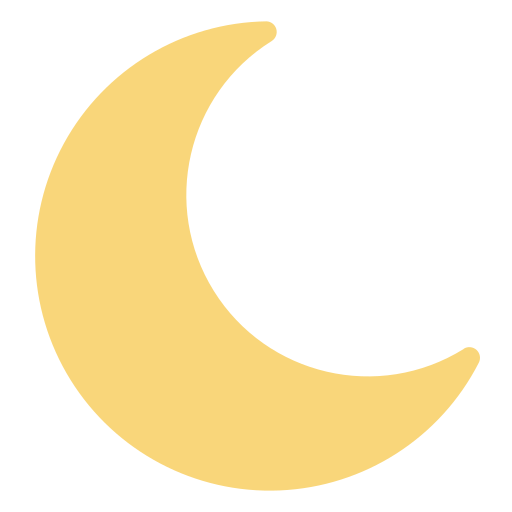
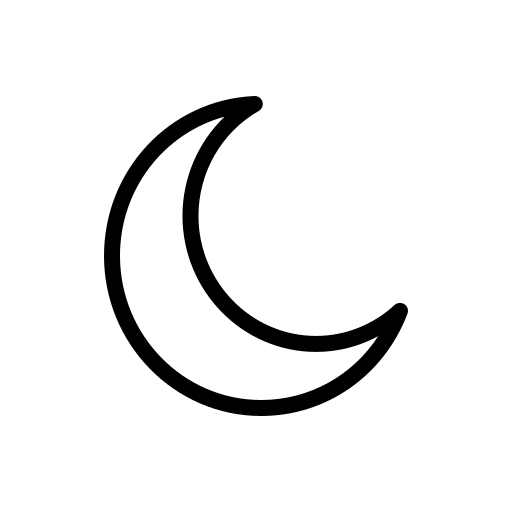
11.1

diff --git a/src/main/resources/com/example/teamproject/Design.css b/src/main/resources/com/example/teamproject/Design.css
@@ -8,16 +8,47 @@
     -fx-border-width: 0px 0px 3px 0px;
 }
 
-.firstColor {
-    -fx-background-color: rgba(214, 214, 208, 0.5);
+.round {
+    -fx-background-radius: 30px;
 }
+
+.firstColor {
+    -fx-background-color: rgba(178, 181, 214, 0.8);
+}
+
+.secondColor {
+    -fx-background-color: rgba(188, 192, 227, 0.8);
+}
+
+.thirdColor {
+    -fx-background-color: rgba(157, 159, 189, 0.74);
+}
+
+.fourthColor {
+    -fx-background-color: rgba(72, 73, 87, 0.2);
+}
+
+.fifthColor {
+    -fx-background-color: rgba(125, 127, 150, 0.59);
+}
+
 
 .BackgroundColor {
     -fx-background-color: white;
 }
 
+.white {
+    -fx-background-color: rgba(255, 255, 255, 0.5);
+}
+
 .LogoImage {
     -fx-background-image: url(Cresent.png);
+    -fx-background-size: cover;
+    -fx-background-position: center;
+}
+
+.CresentImage {
+    -fx-background-image: url(Moon.png);
     -fx-background-size: cover;
     -fx-background-position: center;
 }

diff --git a/src/main/java/com/example/teamproject/Login.java b/src/main/java/com/example/teamproject/Login.java
@@ -1,0 +1,4 @@
+package com.example.teamproject;
+
+public class Login {
+}
